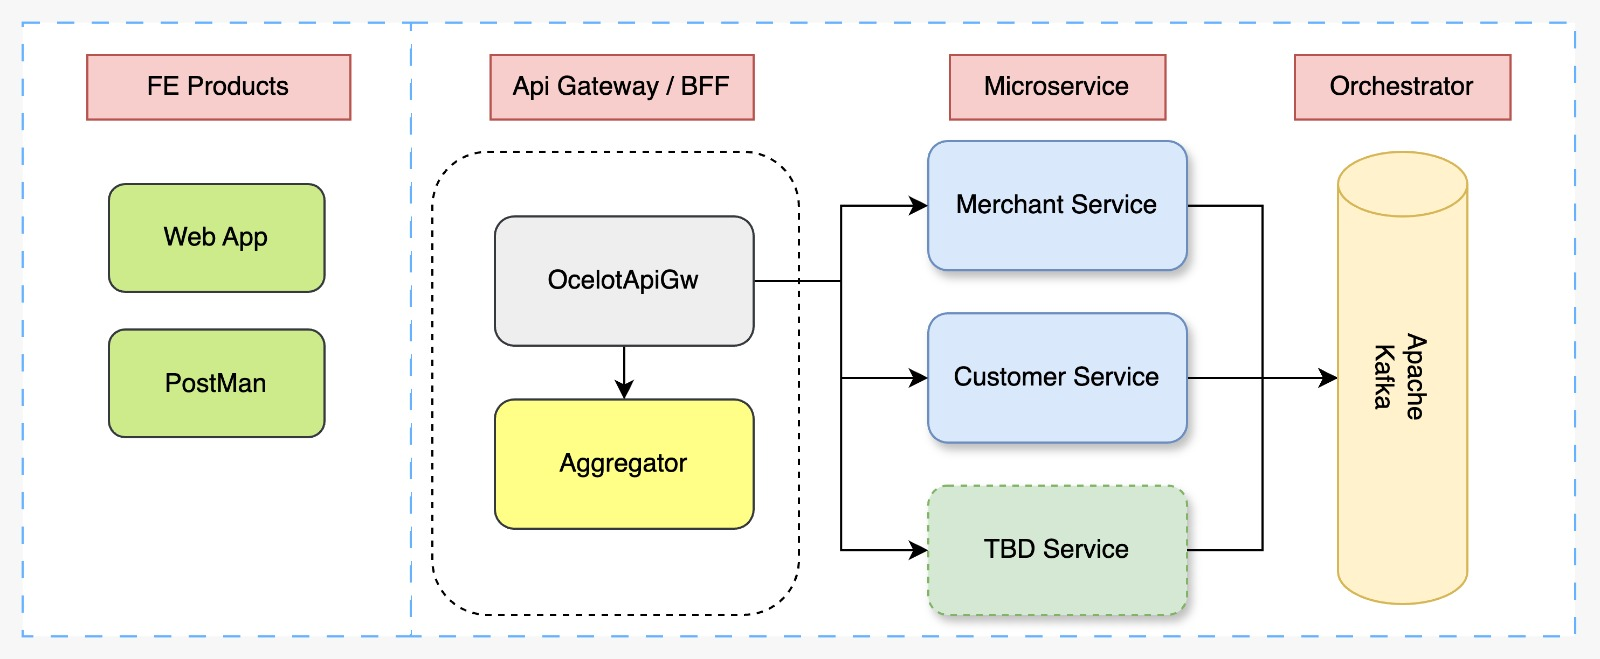
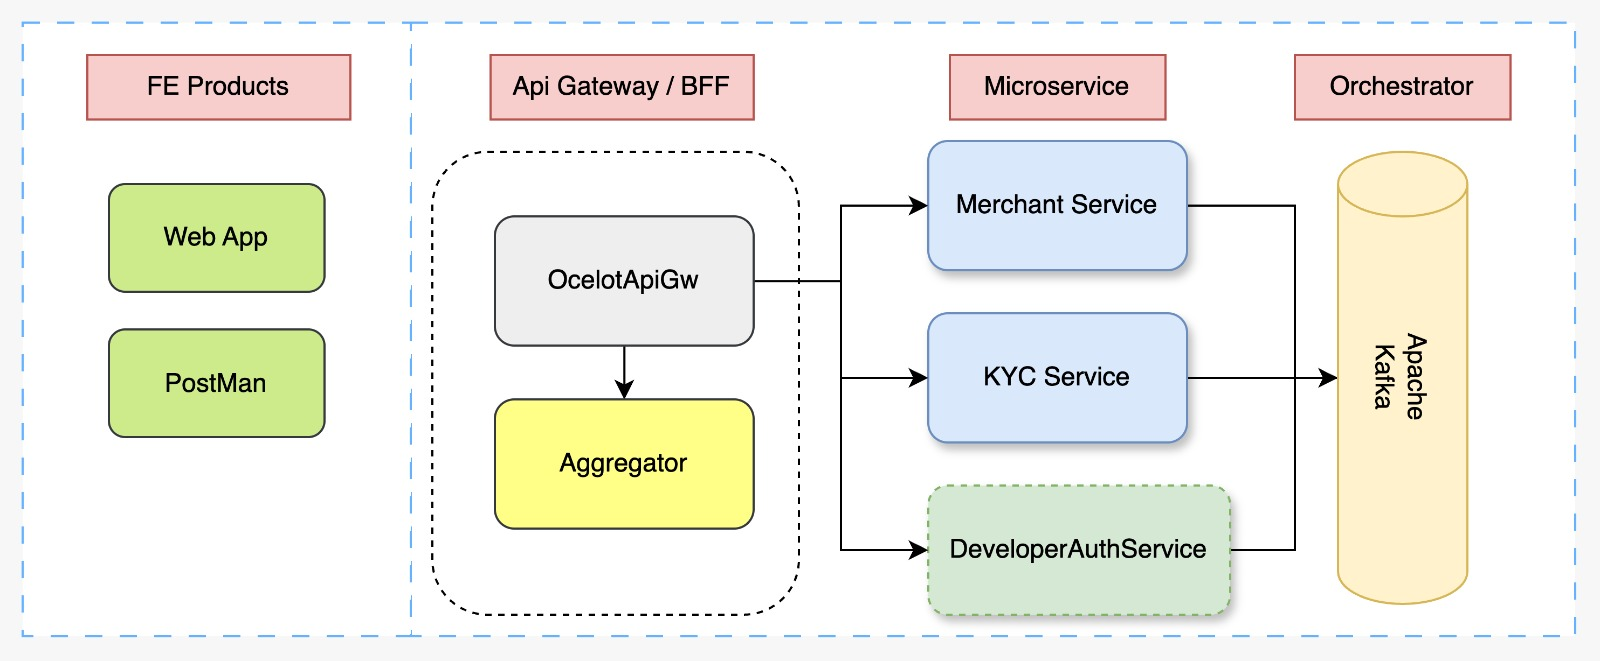
docs: update API specifications, architecture diagram

diff --git a/README.md b/README.md
@@ -2,12 +2,43 @@
 Dotpay is a sandbox payment gateway developed using C# and .NET framework.
 
 # Overview
-Dotpay consist of multiple resources such as:
-1. Merchant
-2. Customers
-3. Balance 
-4. Charges
-5. Payment Intent
+Dotpay consist of multiple backend services such as:
+1. MerchantService
+2. KYCService
+3. DeveloperAuthService 
+
+# Project Architecture 
+![architecture-v1](images/architecture-v1.jpeg)
+
+# Services Specification
+## MerchantService
+| Method | Request URI | Use Case |
+|--------|---------------------------------|--------------------------------|
+| POST   | `api/merchant/register`         | Register new merchant          |
+| PUT    | `api/merchant/register`         | Update merchant                |
+| GET    | `api/merchant/{merchantId}`     | Query merchant information     |
+| GET    | `api/merchant`                  | Query all merchant information |
+
+## KYCService
+| Method | Request URI | Use Case |
+|--------|---------------------------------|--------------------------------|
+| POST   | `api/kyc/upload`                | Submit KYC documents           |
+| GET    | `api/kyc/status/{merchantId}`   | Query KYC status               |
+| GET    | `api/kyc/verify/{merchantId}`   | Approve or reject kyc status   |
+
+## DeveloperAuthService
+| Method | Request URI | Use Case |
+|--------|---------------------------------|--------------------------------|
+| GET    | `api/dev-auth/api-keys`         | Query API Keys for merchant    |
+| POST   | `api/dev-auth/api-keys`         | Create API keys for merchant   |
+| DELETE | `api/dev-auth/api-keys/{keyId}` | Revoke API Keys                |
+
+
+# Motivation
+1. Learning the ins and outs of payment gateway
+2. Practice to implement industry level code standard 
+3. Implement industry level cicd workflow
+4. Learning product development
 
 # Consideration
 - Good DX
@@ -15,18 +46,4 @@ Dotpay consist of multiple resources such as:
 - Harness value from monorepo 
 - Ensure codebase is industry standard
 
-# Project Architecture 
-![architecture-v1](images/architecture-v1.jpeg)
 
-# Service Specification
-## Merchant Service (API)
-
-| Method | Request URI | Use Case |
-|--------|------------|----------|
-| POST   | `api/v1/merchant/register` | Register new merchant |
-
-# Motivation
-1. Learning the ins and outs of payment gateway
-2. Practice to implement industry level code standard 
-3. Implement industry level cicd workflow
-4. Learning product development
